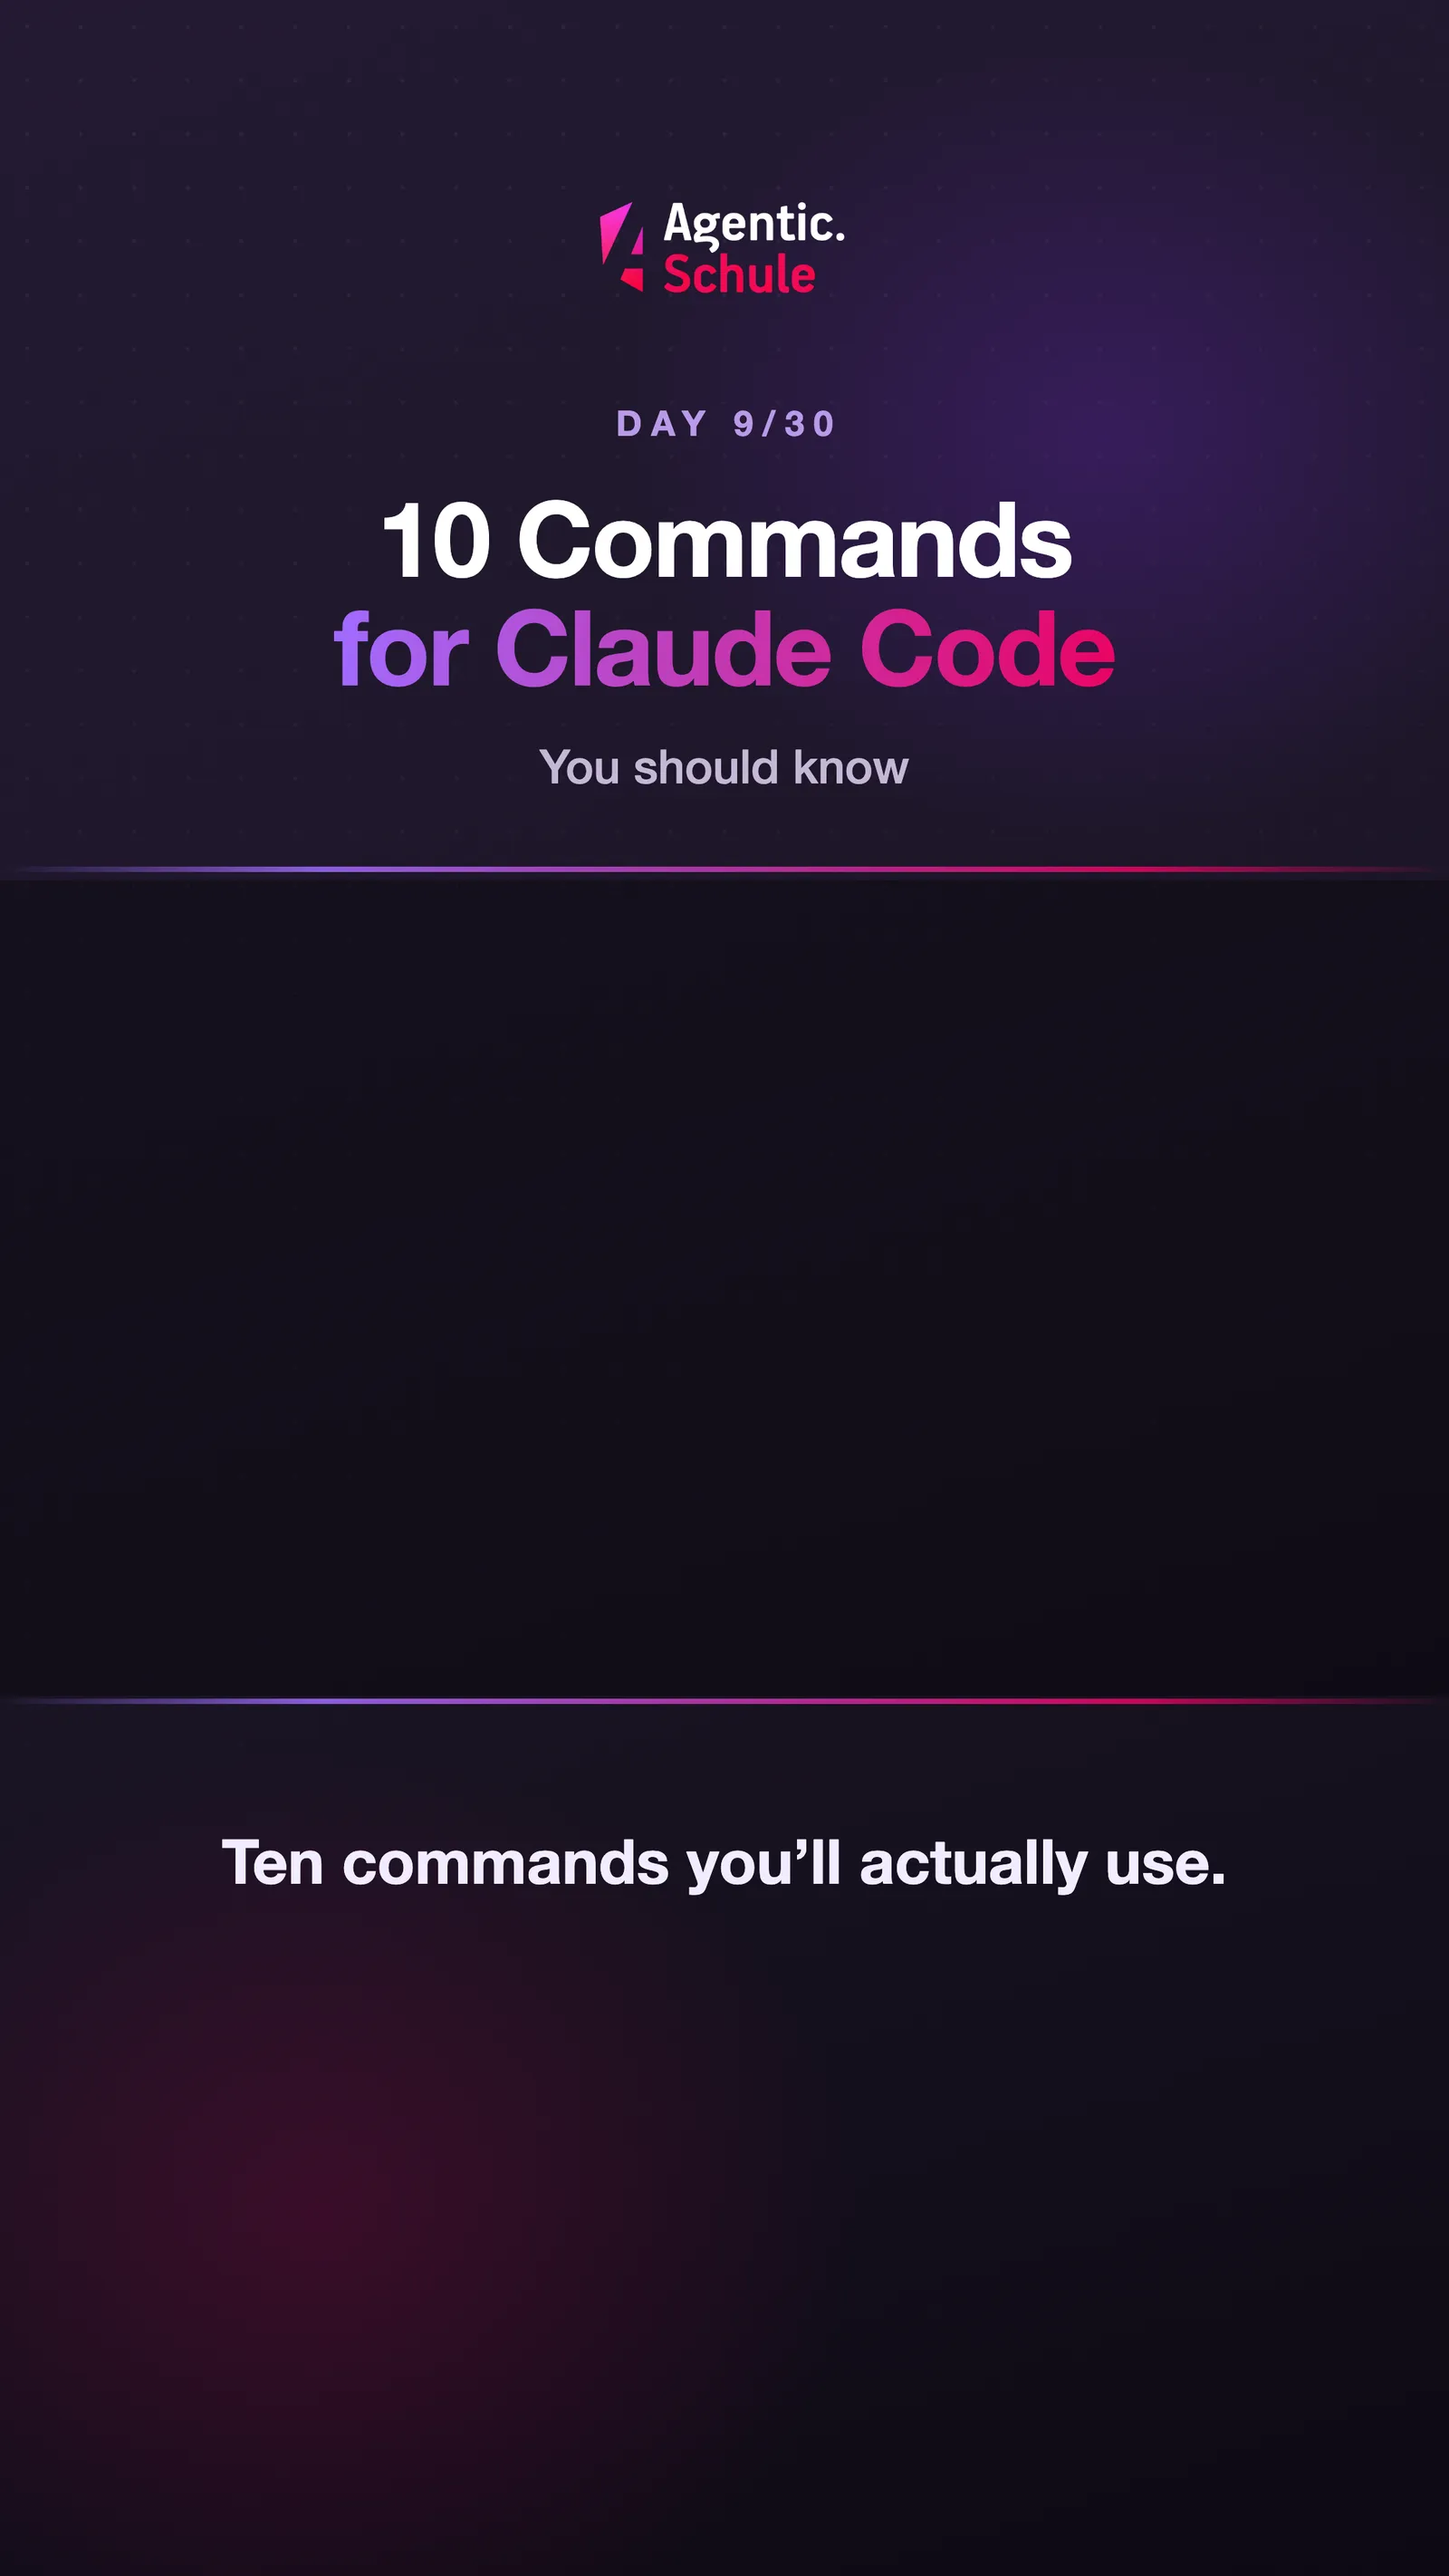
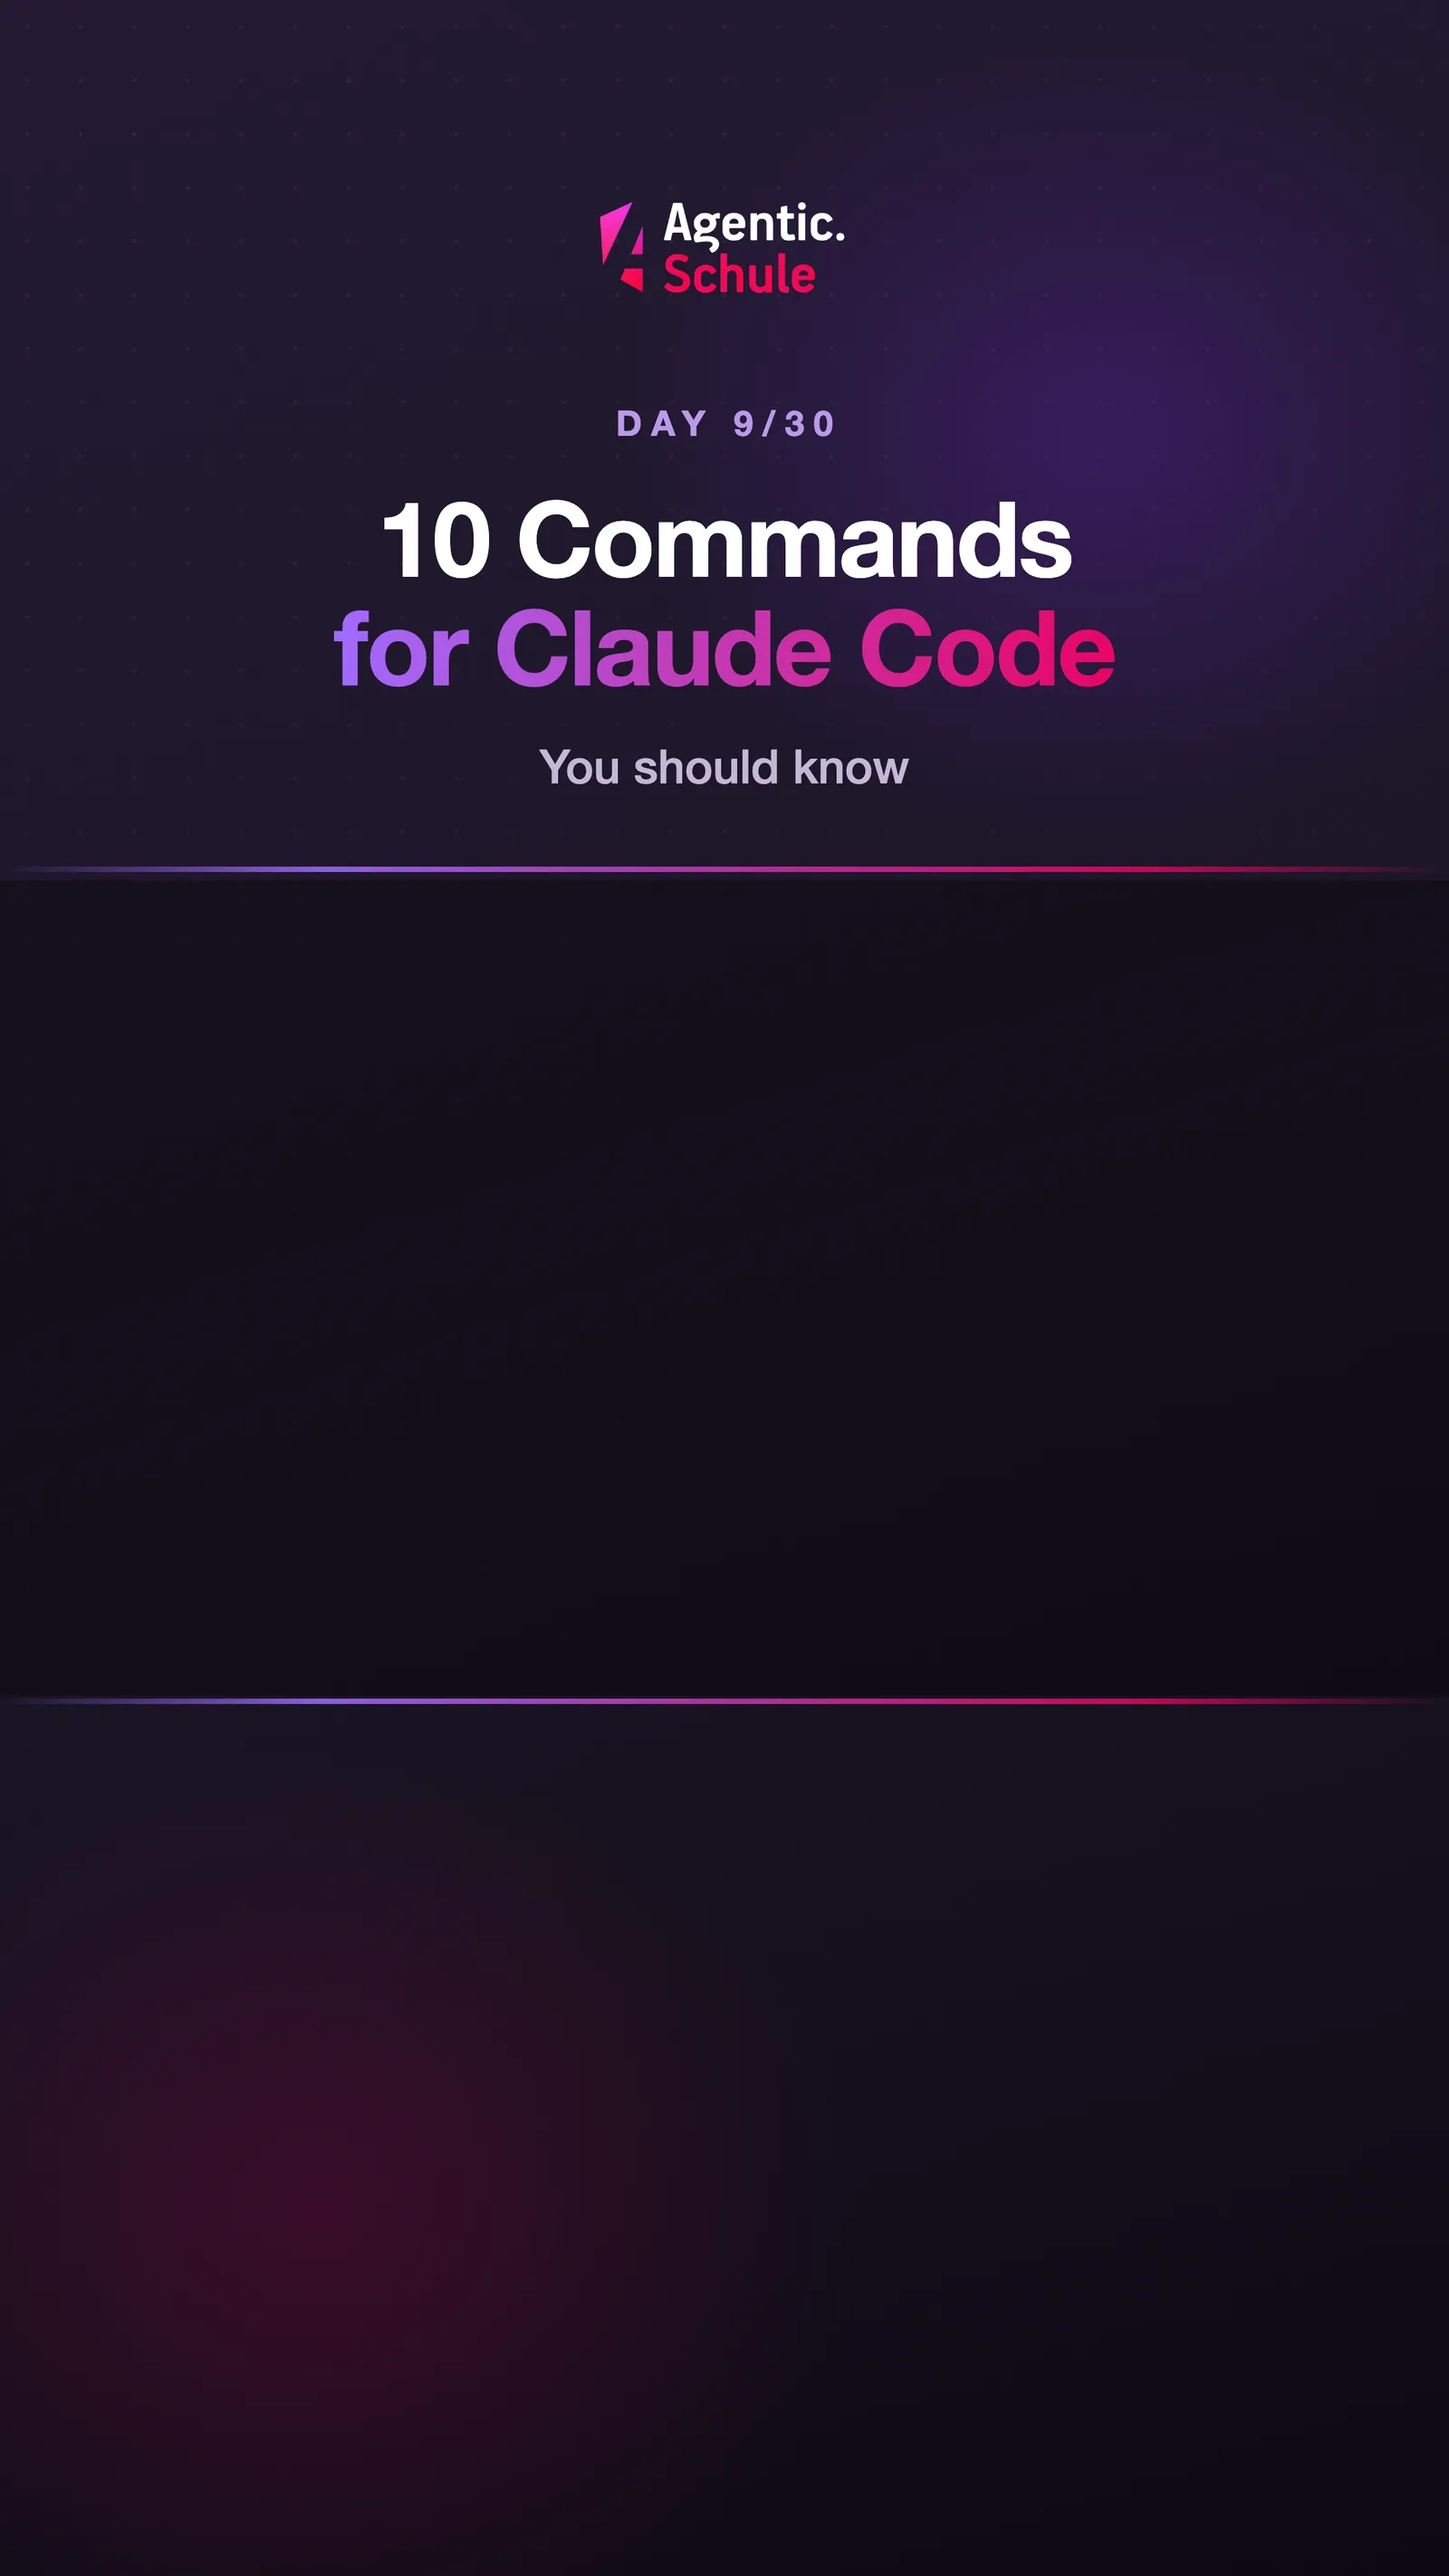
Auto-generated commit
Triggered by commit: https://github.com/Agentic-Schule/website-articles/commit/15336932cd0cad76559f48966fc818fde3466e04

Changed region(s): [[0.1562, 0.7117, 0.8438, 0.7426]]

diff --git a/blog/2026-09-agent-research-playwright-mcp-EN/header-reel.src.html b/blog/2026-09-agent-research-playwright-mcp-EN/header-reel.src.html
@@ -31,8 +31,6 @@
   .edge { position:absolute; left:0; width:1080px; height:4px;
     background:linear-gradient(90deg, transparent, #a06bff 22%, #e90464 78%, transparent); opacity:.85; }
   .edge.t { top:646px; } .edge.b { top:1266px; }
-  .bottom { position:absolute; top:1360px; left:0; right:0; padding:0 96px; }
-  .teaser { font-size:46px; font-weight:700; color:#f2ecff; line-height:1.18; max-width:780px; margin:0 auto; }
 </style>
 </head>
 <body>
@@ -46,8 +44,5 @@
   <div class="edge t"></div>
   <div class="video"></div>
   <div class="edge b"></div>
-  <div class="bottom">
-    <div class="teaser">Blocked from research? Give your AI agent its own browser.</div>
-  </div>
 </body>
 </html>

diff --git a/blog/2026-09-loop-engineering-EN/header-reel.src.html b/blog/2026-09-loop-engineering-EN/header-reel.src.html
@@ -31,8 +31,6 @@
   .edge { position:absolute; left:0; width:1080px; height:4px;
     background:linear-gradient(90deg, transparent, #a06bff 22%, #e90464 78%, transparent); opacity:.85; }
   .edge.t { top:646px; } .edge.b { top:1266px; }
-  .bottom { position:absolute; top:1360px; left:0; right:0; padding:0 96px; }
-  .teaser { font-size:46px; font-weight:700; color:#f2ecff; line-height:1.18; max-width:780px; margin:0 auto; }
 </style>
 </head>
 <body>
@@ -46,8 +44,5 @@
   <div class="edge t"></div>
   <div class="video"></div>
   <div class="edge b"></div>
-  <div class="bottom">
-    <div class="teaser">The AI agent that sends itself back to work.</div>
-  </div>
 </body>
 </html>

diff --git a/blog/2026-09-malicious-ai-skills-EN/header-reel.src.html b/blog/2026-09-malicious-ai-skills-EN/header-reel.src.html
@@ -31,8 +31,6 @@
   .edge { position:absolute; left:0; width:1080px; height:4px;
     background:linear-gradient(90deg, transparent, #a06bff 22%, #e90464 78%, transparent); opacity:.85; }
   .edge.t { top:646px; } .edge.b { top:1266px; }
-  .bottom { position:absolute; top:1360px; left:0; right:0; padding:0 96px; }
-  .teaser { font-size:46px; font-weight:700; color:#f2ecff; line-height:1.18; max-width:780px; margin:0 auto; }
 </style>
 </head>
 <body>
@@ -46,8 +44,5 @@
   <div class="edge t"></div>
   <div class="video"></div>
   <div class="edge b"></div>
-  <div class="bottom">
-    <div class="teaser">A harmless AI skill?<br>A hijacked computer!</div>
-  </div>
 </body>
 </html>

diff --git a/blog/2026-09-agentic-coding-mac-mini-EN/header-reel.src.html b/blog/2026-09-agentic-coding-mac-mini-EN/header-reel.src.html
@@ -31,8 +31,6 @@
   .edge { position:absolute; left:0; width:1080px; height:4px;
     background:linear-gradient(90deg, transparent, #a06bff 22%, #e90464 78%, transparent); opacity:.85; }
   .edge.t { top:646px; } .edge.b { top:1266px; }
-  .bottom { position:absolute; top:1360px; left:0; right:0; padding:0 96px; }
-  .teaser { font-size:46px; font-weight:700; color:#f2ecff; line-height:1.18; max-width:780px; margin:0 auto; }
 </style>
 </head>
 <body>
@@ -46,8 +44,5 @@
   <div class="edge t"></div>
   <div class="video"></div>
   <div class="edge b"></div>
-  <div class="bottom">
-    <div class="teaser">One tiny Mac. AI agents that never sleep.</div>
-  </div>
 </body>
 </html>

diff --git a/blog/2026-09-agentic-coding-git-worktrees-EN/header-reel.src.html b/blog/2026-09-agentic-coding-git-worktrees-EN/header-reel.src.html
@@ -31,8 +31,6 @@
   .edge { position:absolute; left:0; width:1080px; height:4px;
     background:linear-gradient(90deg, transparent, #a06bff 22%, #e90464 78%, transparent); opacity:.85; }
   .edge.t { top:646px; } .edge.b { top:1266px; }
-  .bottom { position:absolute; top:1360px; left:0; right:0; padding:0 96px; }
-  .teaser { font-size:46px; font-weight:700; color:#f2ecff; line-height:1.18; max-width:780px; margin:0 auto; }
 </style>
 </head>
 <body>
@@ -46,8 +44,5 @@
   <div class="edge t"></div>
   <div class="video"></div>
   <div class="edge b"></div>
-  <div class="bottom">
-    <div class="teaser">Many agents, one repo, zero collisions.</div>
-  </div>
 </body>
 </html>

diff --git a/blog/2026-10-claude-code-commands-EN/header-reel.src.html b/blog/2026-10-claude-code-commands-EN/header-reel.src.html
@@ -31,8 +31,6 @@
   .edge { position:absolute; left:0; width:1080px; height:4px;
     background:linear-gradient(90deg, transparent, #a06bff 22%, #e90464 78%, transparent); opacity:.85; }
   .edge.t { top:646px; } .edge.b { top:1266px; }
-  .bottom { position:absolute; top:1360px; left:0; right:0; padding:0 96px; }
-  .teaser { font-size:46px; font-weight:700; color:#f2ecff; line-height:1.18; max-width:780px; margin:0 auto; }
 </style>
 </head>
 <body>
@@ -46,8 +44,5 @@
   <div class="edge t"></div>
   <div class="video"></div>
   <div class="edge b"></div>
-  <div class="bottom">
-    <div class="teaser">Ten commands you’ll actually use.</div>
-  </div>
 </body>
 </html>

diff --git a/blog/2026-10-session-messaging-EN/header-reel.src.html b/blog/2026-10-session-messaging-EN/header-reel.src.html
@@ -31,8 +31,6 @@
   .edge { position:absolute; left:0; width:1080px; height:4px;
     background:linear-gradient(90deg, transparent, #a06bff 22%, #e90464 78%, transparent); opacity:.85; }
   .edge.t { top:646px; } .edge.b { top:1266px; }
-  .bottom { position:absolute; top:1360px; left:0; right:0; padding:0 96px; }
-  .teaser { font-size:46px; font-weight:700; color:#f2ecff; line-height:1.18; max-width:780px; margin:0 auto; }
 </style>
 </head>
 <body>
@@ -46,8 +44,5 @@
   <div class="edge t"></div>
   <div class="video"></div>
   <div class="edge b"></div>
-  <div class="bottom">
-    <div class="teaser">When your terminals start talking.</div>
-  </div>
 </body>
 </html>

diff --git a/blog/2026-09-prompt-context-engineering-EN/header-reel.src.html b/blog/2026-09-prompt-context-engineering-EN/header-reel.src.html
@@ -31,8 +31,6 @@
   .edge { position:absolute; left:0; width:1080px; height:4px;
     background:linear-gradient(90deg, transparent, #a06bff 22%, #e90464 78%, transparent); opacity:.85; }
   .edge.t { top:646px; } .edge.b { top:1266px; }
-  .bottom { position:absolute; top:1360px; left:0; right:0; padding:0 96px; }
-  .teaser { font-size:46px; font-weight:700; color:#f2ecff; line-height:1.18; max-width:780px; margin:0 auto; }
 </style>
 </head>
 <body>
@@ -46,8 +44,5 @@
   <div class="edge t"></div>
   <div class="video"></div>
   <div class="edge b"></div>
-  <div class="bottom">
-    <div class="teaser">Two buzzwords. One real craft.</div>
-  </div>
 </body>
 </html>

diff --git a/blog/2026-09-graph-engineering-EN/header-reel.src.html b/blog/2026-09-graph-engineering-EN/header-reel.src.html
@@ -31,8 +31,6 @@
   .edge { position:absolute; left:0; width:1080px; height:4px;
     background:linear-gradient(90deg, transparent, #a06bff 22%, #e90464 78%, transparent); opacity:.85; }
   .edge.t { top:646px; } .edge.b { top:1266px; }
-  .bottom { position:absolute; top:1360px; left:0; right:0; padding:0 96px; }
-  .teaser { font-size:46px; font-weight:700; color:#f2ecff; line-height:1.18; max-width:780px; margin:0 auto; }
 </style>
 </head>
 <body>
@@ -46,8 +44,5 @@
   <div class="edge t"></div>
   <div class="video"></div>
   <div class="edge b"></div>
-  <div class="bottom">
-    <div class="teaser">Fan out, verify, synthesize.</div>
-  </div>
 </body>
 </html>

diff --git a/blog/2026-09-vibe-coding-EN/header-reel.src.html b/blog/2026-09-vibe-coding-EN/header-reel.src.html
@@ -31,8 +31,6 @@
   .edge { position:absolute; left:0; width:1080px; height:4px;
     background:linear-gradient(90deg, transparent, #a06bff 22%, #e90464 78%, transparent); opacity:.85; }
   .edge.t { top:646px; } .edge.b { top:1266px; }
-  .bottom { position:absolute; top:1360px; left:0; right:0; padding:0 96px; }
-  .teaser { font-size:46px; font-weight:700; color:#f2ecff; line-height:1.18; max-width:780px; margin:0 auto; }
 </style>
 </head>
 <body>
@@ -46,8 +44,5 @@
   <div class="edge t"></div>
   <div class="video"></div>
   <div class="edge b"></div>
-  <div class="bottom">
-    <div class="teaser">Vibes, or real craft?</div>
-  </div>
 </body>
 </html>
